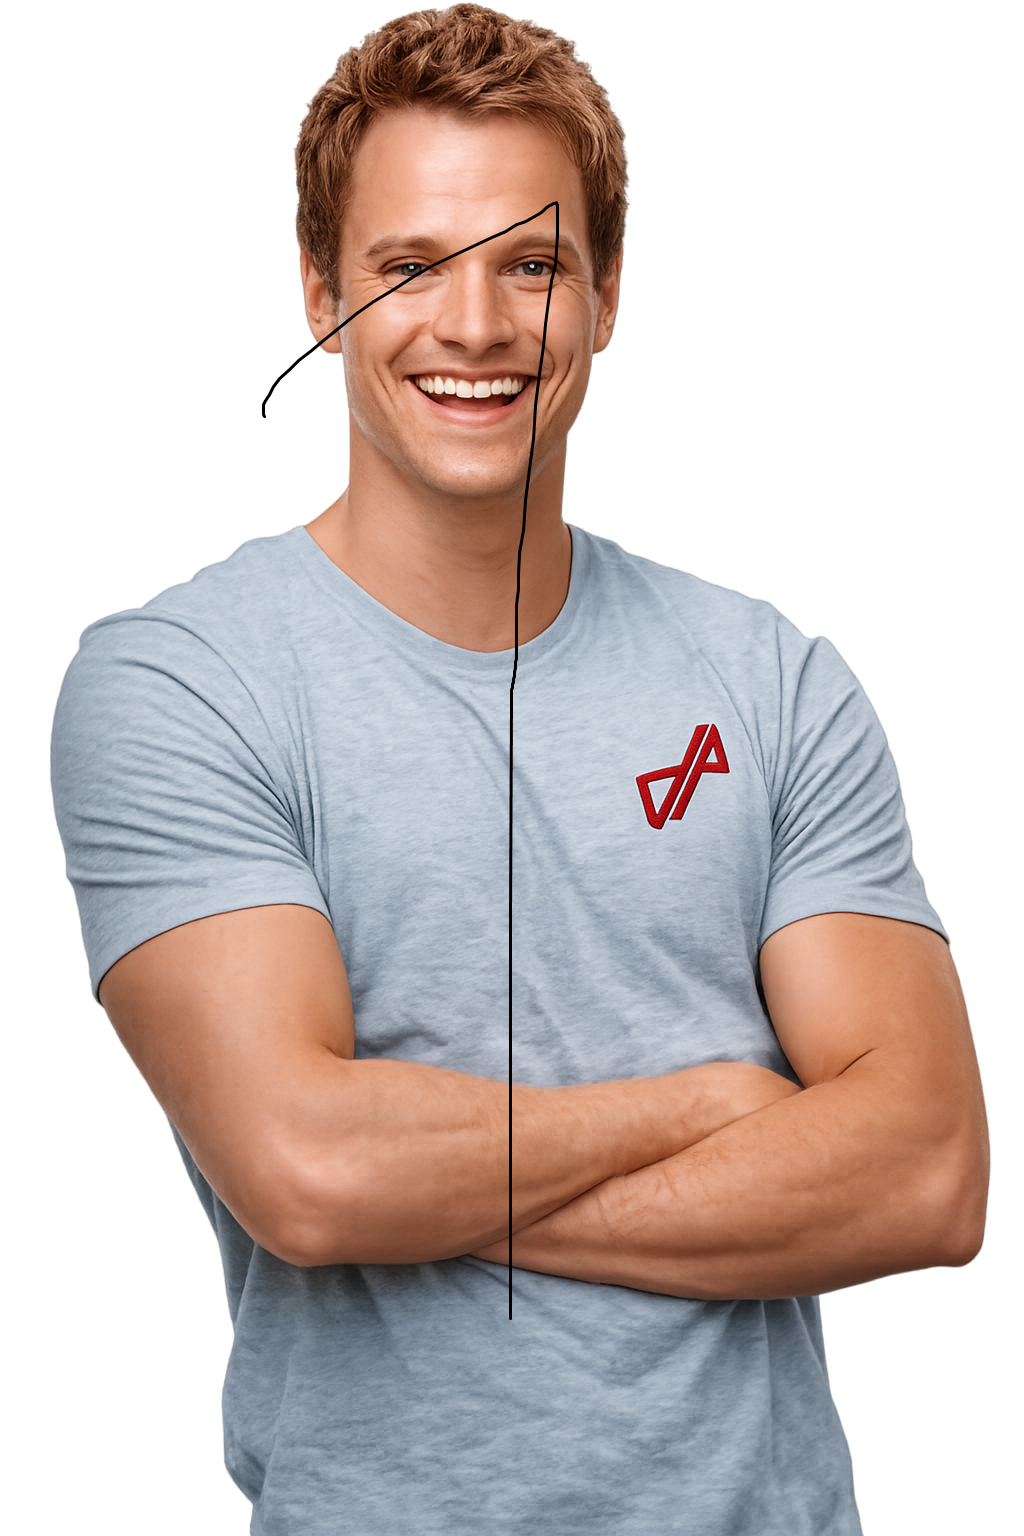
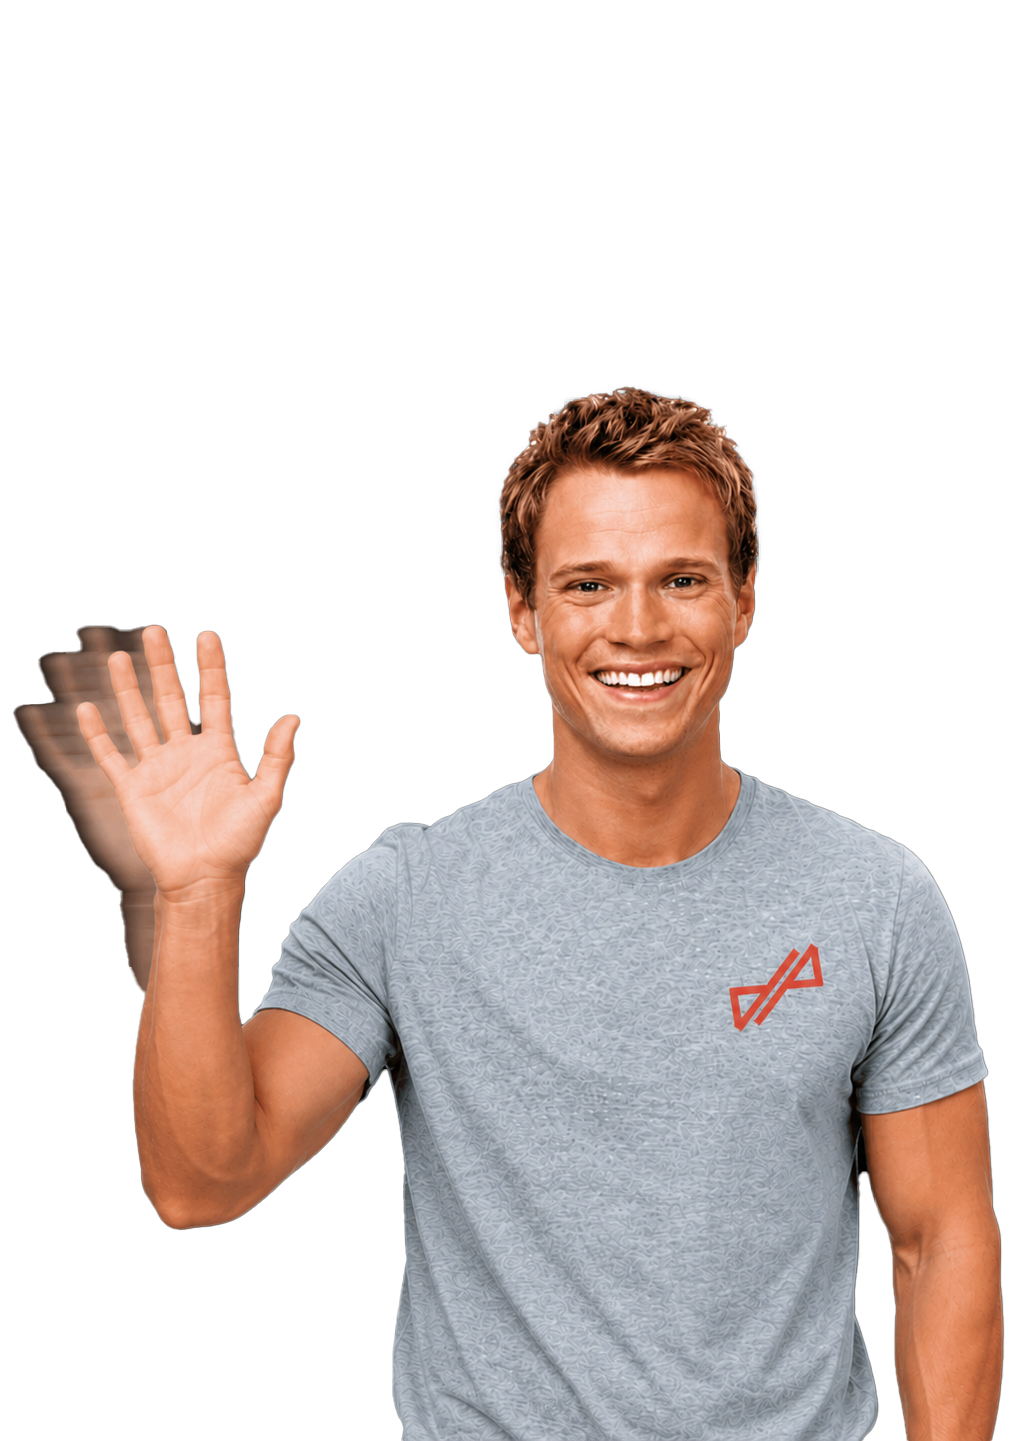
projects update

diff --git a/src/data/projects.ts b/src/data/projects.ts
@@ -1,10 +1,15 @@
 import type { Project } from "../types/project";
 
-import libreDeskCover from "../assets/projects/Gebürstet_60x_40_P90414909_highRes_bmw-m4-competition-c.jpg";
-import libreDesk2 from "../assets/projects/lamborghini-murcielago-lp640-4-lamborghini-vehicle-car-digital-art-hd-wallpaper-98c65df860801cc8f0dc61ae5832c4da.jpg";
+import libreDeskCover from "../assets/projects/KI_Antwort.png";
+import libreDesk2 from "../assets/projects/n8n_Workflow.png";
 import libreDesk3 from "../assets/projects/nissan-skyline-r34-4k-j6.jpg";
 
-import photolabCover from "../assets/projects/lamborghini-murcielago-lp640-4-lamborghini-vehicle-car-digital-art-hd-wallpaper-98c65df860801cc8f0dc61ae5832c4da.jpg";
+import photolabCover from "../assets/projects/ProfotoLP.png";
+import profoto_editor from "../assets/projects/ProfotoEditor.png";
+import profotoLP from "../assets/projects/ProfotoLP.png";
+import profoto_shopware from "../assets/projects/ProfotoShopware.png";
+import profotoPBX from "../assets/projects/ProfotoPBX.png";
+
 import fitKnightCover from "../assets/projects/nissan-skyline-r34-4k-j6.jpg";
 
 import { techStackMap } from "./techStack";
@@ -60,72 +65,105 @@ export const projects: Project[] = [
     ],
 
     ctaLabel: "Code auf GitHub →",
-    ctaUrl: "https://github.com/DEIN-REPO",
+    ctaUrl: "https://github.com/aza486/libredesk_custom",
   },
 
   {
     id: "project-b",
 
-    title: "Projekt B",
+    title: "Profotolab: E-Commerce Plattform",
 
     shortDescription:
-      "Interaktives Frontend für einen datengetriebenen Workflow.",
+      "Modernisierung und Weiterentwicklung einer produktiven E-Commerce-Plattform für Fotolabor Profotolab.",
 
     responsibilities: [
-      "...",
-      "...",
-      "...",
+      "Frontend-Modernisierung (HTML, CSS, JavaScript)",
+      "Integration des Printbox-Produkteditors",
+      "Produktkonfiguration & Shopware-Verwaltung",
+      "Landingpages & Informationsseiten entwickelt",
+      "SEO-Optimierung & Content-Erstellung",
+      "Technischer Ansprechpartner & Fehleranalyse",
     ],
 
     features: [
-      "...",
-      "...",
-      "...",
+      "Produkteditoren für Fotoabzüge, Wandbilder, Fotogeschenke, etc.",
+      "Dynamische Produktparameter (Größen, Layouts, Preise)",
+      "Individuelle Landingpages",
+      "Shopware-Integration mit externem Printbox-System",
+      "Python-Tools zur Prozessautomatisierung",
+      "Produktiv im täglichen Unternehmenseinsatz",
     ],
 
     techIcons: [
-      techStackMap["Shopware"],
+      techStackMap["HTML5"],
+      techStackMap["CSS3"],
       techStackMap["JavaScript"],
-      techStackMap["Docker"],
-      techStackMap["Git"],
+      techStackMap["Shopware"],
+      techStackMap["Python"],
+      techStackMap["Django"],
+      techStackMap["Photoshop"],
     ],
 
     images: [
       {
         src: photolabCover,
-        title: "Photolab Oberfläche",
+        title: "Profotolab Startseite",
       },
+      {
+        src: profoto_editor,
+        title: "Produkteditor Fotoabzüge",
+      },
+      {
+        src: profotoLP,
+        title: "Landingpage Kleinformate",
+      },
+      {
+        src: profoto_shopware,
+        title: "Verwaltung-Backend Shopware",
+      },
+      {
+        src: profotoPBX,
+        title: "Django-Backend von Printbox",
+      },
+      
     ],
 
     ctaLabel: "Live ansehen →",
-    ctaUrl: "https://deine-live-seite.de",
+    ctaUrl: "https://www.profotolab.de/",
   },
 
   {
     id: "project-c",
 
-    title: "Projekt C",
+    title: "Persönliche Website",
 
     shortDescription:
       "Portfolio-Case mit Designsystem und technischer Umsetzung.",
 
     responsibilities: [
-      "...",
-      "...",
-      "...",
+      "UI/UX-Konzept & Wireframes erstellt",
+      "Frontend mit React & TypeScript entwickelt",
+      "Responsive Design für Desktop & Mobile",
+      "Animationen & Micro-Interactions umgesetzt",
+      "Komponentenarchitektur aufgebaut",
     ],
 
     features: [
-      "...",
-      "...",
-      "...",
+      "Interaktive Projektübersicht",
+      "Responsive One-Page-Design",
+      "Dynamische Overlays & Navigation",
+      "Animierte Benutzeroberfläche",
+      "Optimiert für Performance & Benutzerfreundlichkeit",
     ],
 
     techIcons: [
-      techStackMap["Shopware"],
-      techStackMap["JavaScript"],
-      techStackMap["Docker"],
+      techStackMap["React"],
+      techStackMap["TypeScript"],
+      techStackMap["Vite"],
+      techStackMap["CSS3"],
       techStackMap["Git"],
+      techStackMap["Adobe XD"],
+      techStackMap["Photoshop"],
     ],
 
     images: [
@@ -135,7 +173,7 @@ export const projects: Project[] = [
       },
     ],
 
-    ctaLabel: "Prototype ansehen →",
-    ctaUrl: "https://xd.adobe.com/...",
+    ctaLabel: "Code auf Github →",
+    ctaUrl: "https://github.com/aza486/portfolio-site",
   },
 ];

diff --git a/src/data/techStack.ts b/src/data/techStack.ts
@@ -9,7 +9,7 @@ import illustrator from "../assets/icons/illustrator.svg";
 import indesign from "../assets/icons/indesign.svg";
 import javascript from "../assets/icons/javascript.svg";
 import n8n from "../assets/icons/n8n.svg";
-import nodejs from "../assets/icons/nodejs.svg";
+import vite from "../assets/icons/vite.svg";
 import photoshop from "../assets/icons/photoshop.svg";
 import postgres from "../assets/icons/postgres.svg";
 import premiere from "../assets/icons/premierepro.svg";
@@ -18,6 +18,8 @@ import shopware from "../assets/icons/shopware.svg";
 import typescript from "../assets/icons/typescript.svg";
 import openai from "../assets/icons/openai.svg";
 import claude from "../assets/icons/claude.svg";
+import django from "../assets/icons/django.svg";
+import python from "../assets/icons/python.svg";
 
 export interface TechStackItem {
 
@@ -45,8 +47,8 @@ export const techStack: TechStackItem[] = [
     scale: 1,
   },
   {
-    name: "Node.js",
-    icon: nodejs,
+    name: "Vite",
+    icon: vite,
     scale: 1,
   },
   {
@@ -127,6 +129,16 @@ export const techStack: TechStackItem[] = [
   {
     name: "Claude AI",
     icon: claude,
+    scale: 1,
+  },
+  {
+    name: "Django",
+    icon: django,
+    scale: 1,
+  },
+  {
+    name: "Python",
+    icon: python,
     scale: 1,
   },
 ];